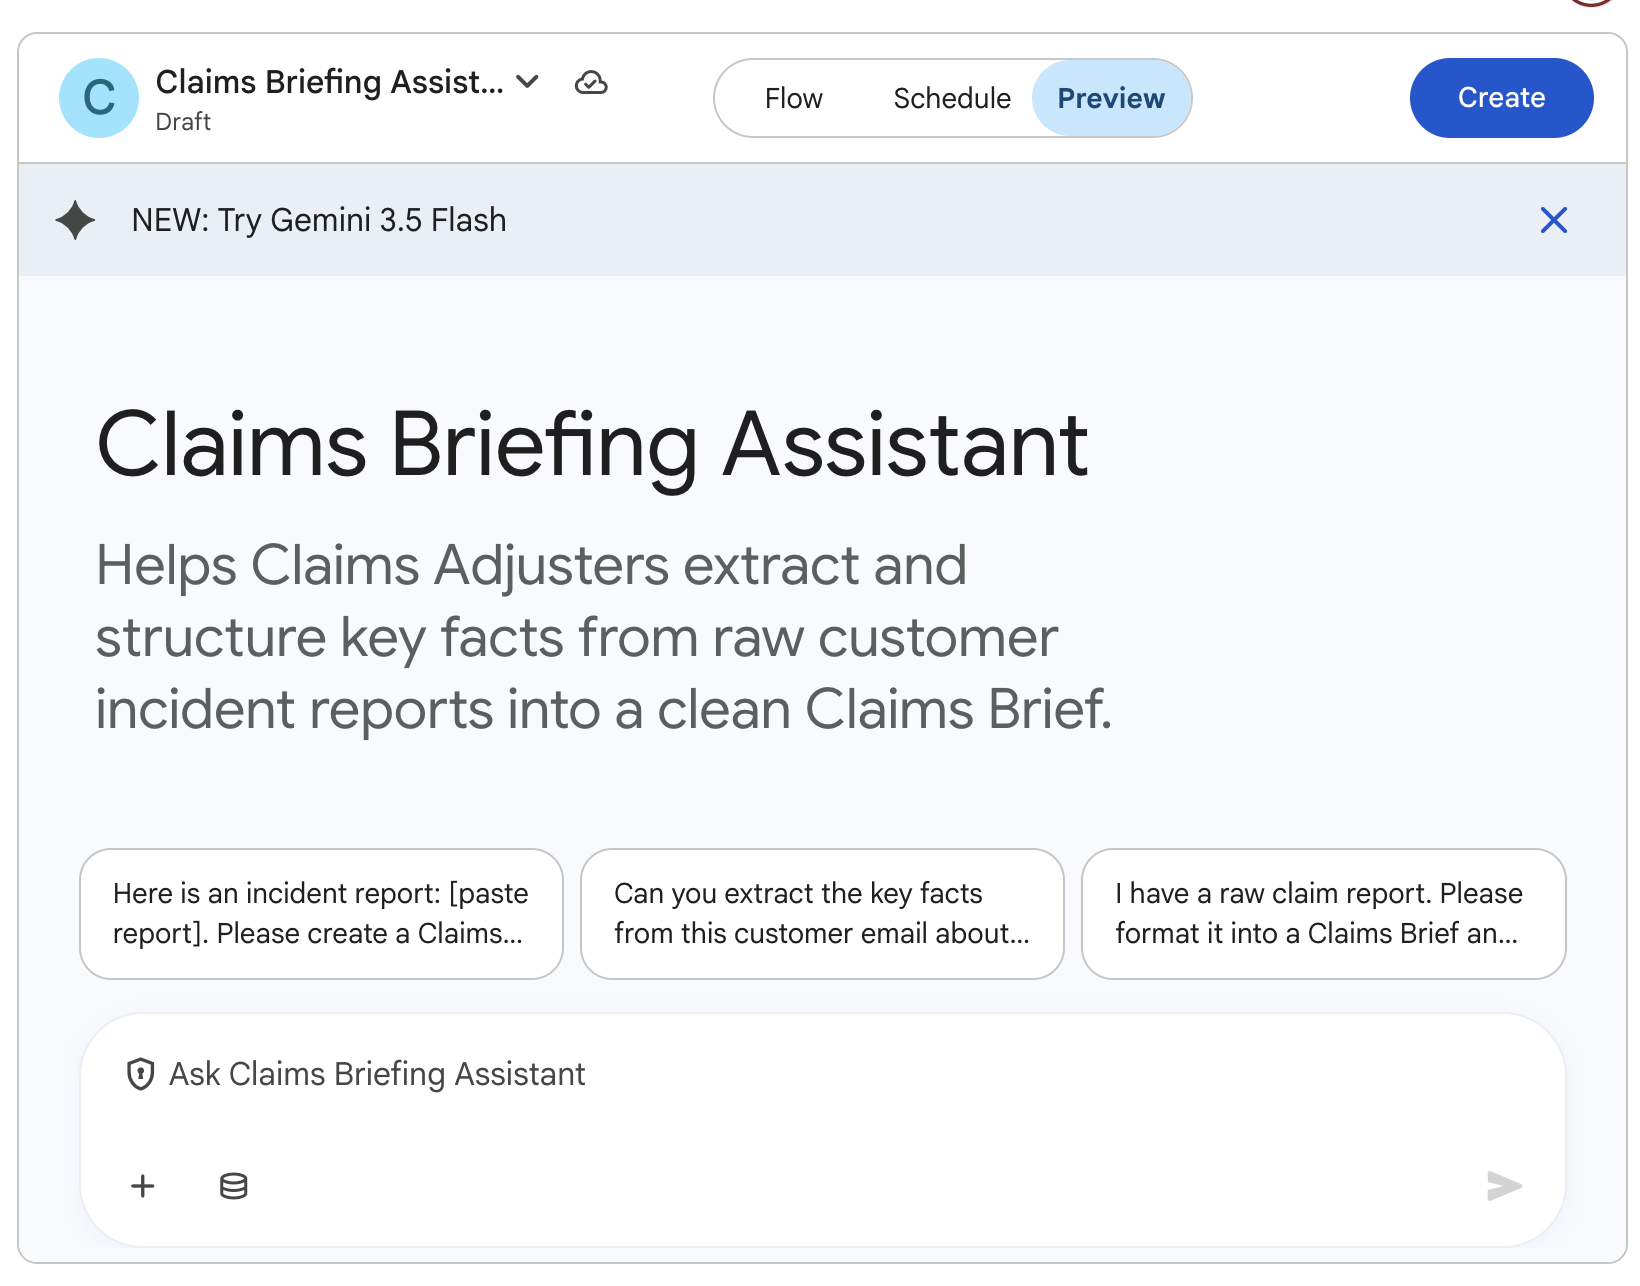
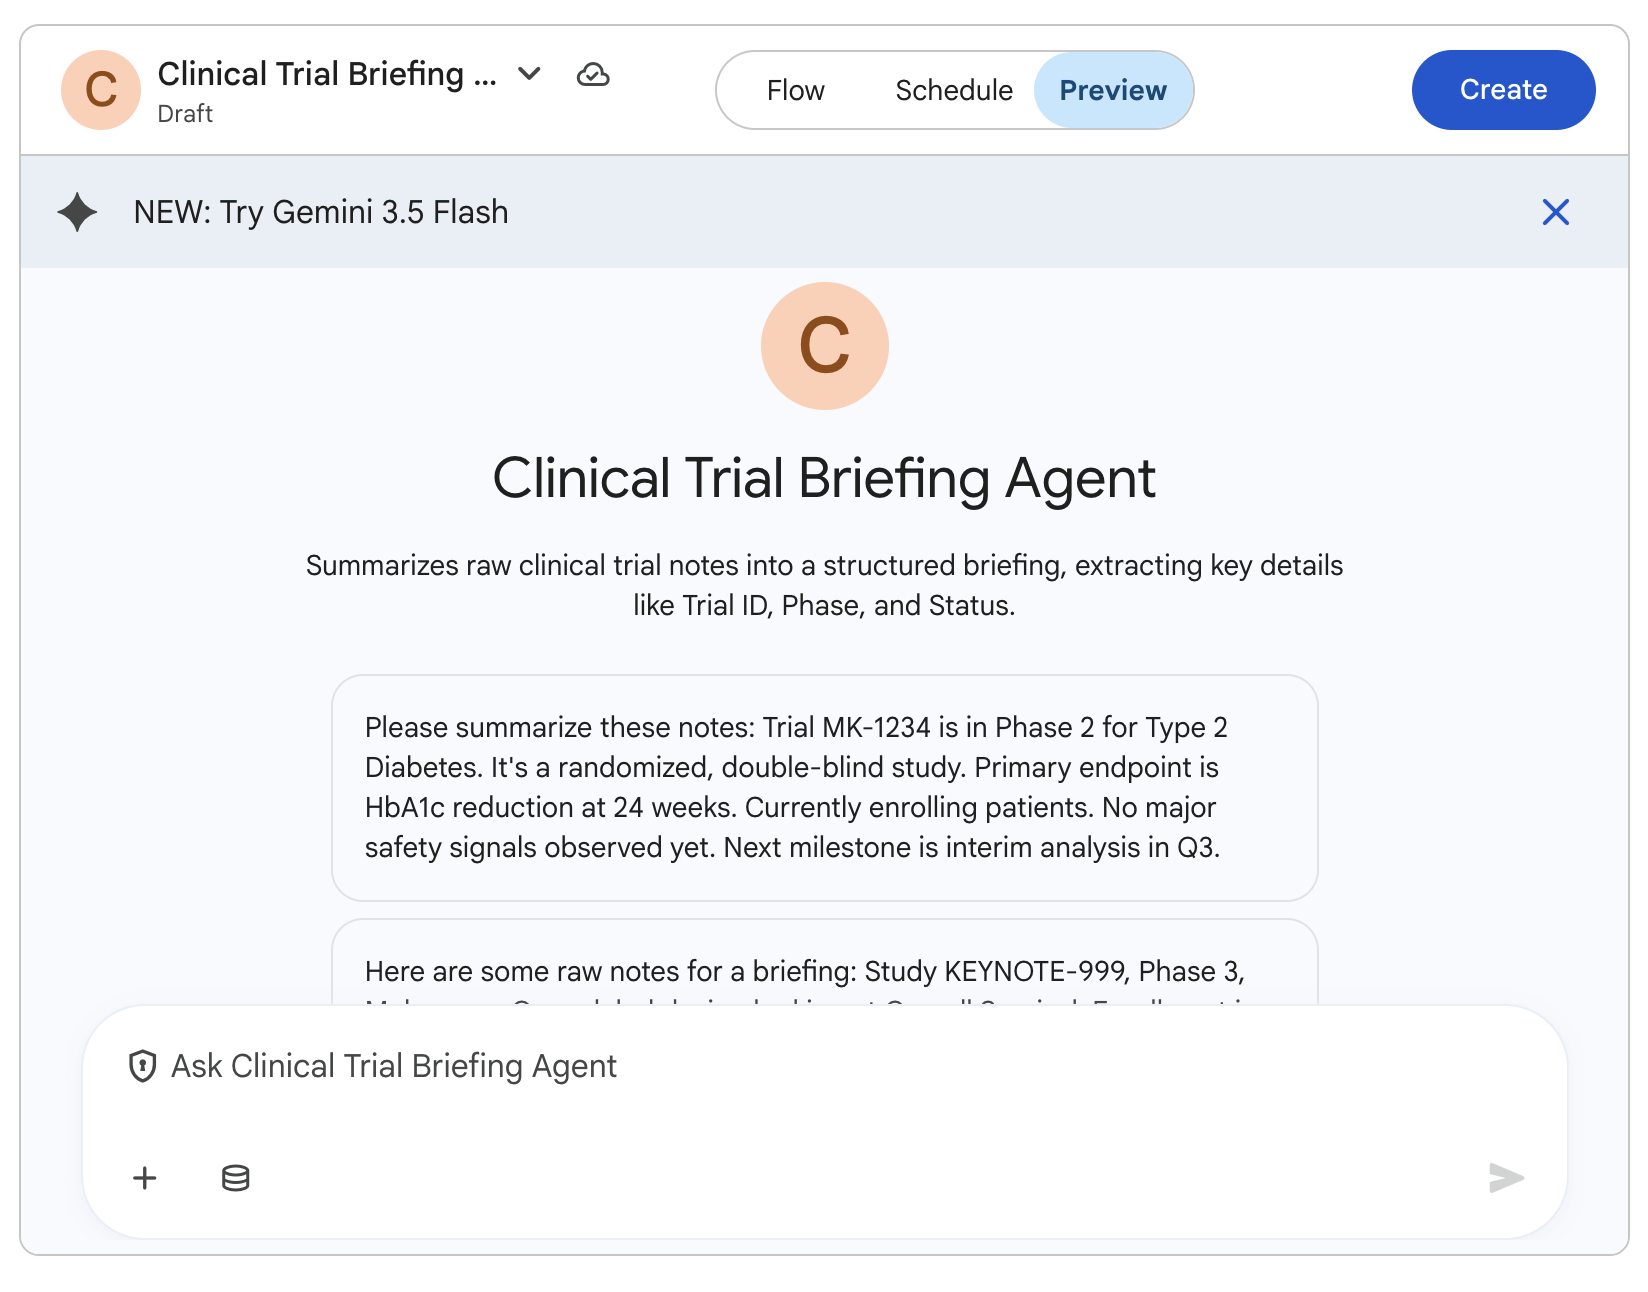
Demo 5

diff --git a/5-creating-simple-agents/creating-simple-agents.md b/5-creating-simple-agents/creating-simple-agents.md
@@ -1,32 +1,30 @@
 # Creating Simple Agents
 
 ## Time Required
-20 minutes
+15 minutes
 
 ## Overview
-In this lab, you create two agents using the prompt-based creation method in Gemini Enterprise Agent Designer. You will start with a focused, single-purpose agent and then build a more sophisticated routing agent—all by describing what you want in plain language.
+In this lab, you will create two lightweight agents in Gemini Enterprise Agent Designer. First, you will build a Clinical Trial Briefing Agent that turns unstructured trial text into a clean summary. Then, you will build a simple routing agent that escalates high-risk summaries.
 
 ### You learn how to:
-- Navigate to the Agent Designer and create an agent using a conversational prompt.
-- Write effective agent instructions that produce consistent, structured output.
-- Test and refine an agent using the Preview tab.
-- Create a multi-step agent that triages inputs and routes them between two distinct roles.
+- Create an agent using prompt-based design.
+- Extract structured fields from unstructured clinical-trial text.
 
 ## Scenario
 
 <p align="left">
-  <img src="images/cymbal-insurance-logo.png" width="25%" alt="Cymbal Insurance Logo" />
+  <img src="images/merck-logo.png" width="25%" alt="Merck Logo" />
 </p>
 
-Cymbal Insurance processes thousands of customer incident reports every day. Claims adjusters currently spend significant time manually reading through unstructured, conversational notes before they can act on a claim. Every minute spent decoding a report is a minute not spent helping a customer.
+Merck teams often need to quickly summarize trial updates for leadership. Raw notes and snippets are useful, but they are not briefing-ready.
 
-In this lab, you build two agents that transform this process: one that structures raw incident reports into a standardized brief, and one that automatically triages claims and routes them to the appropriate response.
+In this lab, you will build one agent to create a standardized trial brief and a second agent system to route high-risk trial updates for escalation.
 
 ## Lab Instructions
 
-### Task 1: Create the Claims Briefing Assistant
+### Task 1: Create the Clinical Trial Briefing Agent
 
-The Claims Briefing Assistant helps adjusters instantly extract and structure key facts from unformatted incident reports.
+This agent turns raw clinical-trial text into a clean, repeatable summary.
 
 1. Open your Gemini Enterprise web app in a browser.
 
@@ -40,21 +38,25 @@ The Claims Briefing Assistant helps adjusters instantly extract and structure ke
 3. The **Agent Designer** page opens. In the chat box, paste the following prompt and click the **Submit** icon:
 
    ```text
-   Create an agent called "Claims Briefing Assistant" for Cymbal Insurance.
+   Create an agent called "Clinical Trial Briefing Agent" for Merck.
 
-   This agent helps Claims Adjusters extract and structure key facts from raw, unformatted customer incident reports.
+   This agent summarizes raw clinical trial notes into a structured briefing.
 
-   When an adjuster pastes an incident report, the agent should:
-   1. Extract and clearly label these seven fields: Claimant Name, Date of Incident, Location, Type of Incident, Vehicles or Property Involved, Reported Injuries, and Estimated Damage.
-   2. If any field is missing or unclear, flag it as "Not Provided — follow up required."
-   3. Output a clean, consistently formatted "Claims Brief" using the exact field labels above.
-   4. End every brief with a one-sentence "Recommended Next Step" based on the reported severity.
+   When text is provided, extract and label:
+   1. Trial ID
+   2. Phase
+   3. Indication
+   4. Study design
+   5. Primary endpoint
+   6. Current status
+   7. Safety signals
+   8. Next milestone
 
-   The agent should be professional and factual. It must not add any information that was not stated in the incident report.
+   Rules:
+   - If data is missing, write: "Not Provided - follow up required."
+   - Do not invent facts.
+   - End with: "Recommended Next Step" in one sentence.
    ```
-
-   > [!NOTE]
-   > Gemini Enterprise analyzes your prompt and may ask clarifying questions before building the agent. If it does, review what it proposes before proceeding.
 
 4. The **Agent Designer canvas** appears with your agent and a live preview pane.
 
@@ -63,147 +65,32 @@ The Claims Briefing Assistant helps adjusters instantly extract and structure ke
      <br><em>The Agent Designer canvas showing your new agent and the Preview tab</em>
    </p>
 
-5. Click the **Flow** tab to inspect the generated agent structure. Click the agent node to review the generated **Name**, **Description**, and **Instructions**.
-
-   > [!NOTE]
-   > Review the generated instructions carefully. They should reflect what you described in the prompt. You can edit them directly in the configuration panel if anything needs adjustment.
-
-### Task 2: Test and refine the Claims Briefing Assistant
-
-1. Click the **Preview** tab. The conversational interface for your agent appears on the right.
-
-2. Test the agent with the following sample incident report—paste it into the chat:
+5. Click **Preview** and test with this sample input:
 
    ```text
-   Customer called in this morning. Says his car was hit while parked outside the mall on Riverside Drive. They dont know who hit it — someone left a note but never called back. Car is a 2019 Honda Accord. The rear bumper is smashed in and the trunk wont open. They think its about 3 to 4 thousand dollars in damage. No injuries. They have photos they can send.
+   Trial update: MK-ALZ-204 is a Phase 2 randomized, placebo-controlled study in early Alzheimer's disease. Enrollment target is 420 participants across US and EU sites. Primary endpoint is change in CDR-SB at 18 months. Interim operations update indicates enrollment is slower than plan in EU sites. No new serious safety signal reported; common AEs include headache and infusion-related reactions. Database lock is currently projected for Q2 next year.
    ```
 
-3. Review the generated Claims Brief. Ask yourself:
-   - Are all seven fields extracted correctly?
-   - Are missing fields flagged appropriately?
-   - Is the Recommended Next Step specific and actionable?
+6. Check that all fields are captured and missing fields are flagged.
 
-   <p align="left">
-     <img src="images/agent-response-1.png" width="70%" alt="Agent Test Response" />
-     <br><em>The Agent Preview showing the first test response.</em>
-   </p>
+### Task 2: Refine and Launch
 
-
-4. Let's try to improve the agent's output. Use the left chat pane to refine the agent with the following prompt:
+1. Improve the output with this refinement prompt:
 
    ```text
-   Update the instructions so the Recommended Next Steps always specifies one or more concrete actions, such as "Schedule field inspection" or "Request supplemental documentation from claimant" or whatever else is appropriate given the information gathered so far. 
+   Update the instructions so the Recommended Next Step always includes one concrete action and one owner (for example: Clinical Ops, Safety, or Regulatory).
    ```
 
-5. Test again with the updated agent to confirm the refinement worked. Here is another example test prompt.  
-
-```text
-Customer Mike Jones called this morning. Says his car was rear-ended on 495 South near mile marker 43. Car is a 2024 Chevy Silverado 1500. The rear bumper is dented and there is damage to the trail gate. A police report was filed by Fairfax Count PD. The other driver's name was Jeff Smith. From Tysons Corner, VA. There were no injuries. They have photos they can send.
-```
-
-6. When you are satisfied with the output, click **Create** to launch the agent.
+2. Test once more. If good, click **Create** to launch.
 
    > [!IMPORTANT]
    > If you exit the Agent Designer without clicking **Create**, your agent is saved as a **Draft** and will not be available to use until it is launched.
 
-7. Click the __Chat with Agent__ button to open it in a new chat window. Test it again. You can use one of the earlier test prompts or enter your own.
+3. Open **Chat with Agent** and run one quick verification test.
 
-8. Once your agent is deployed, it will be available in the __Agents__ screen in Gemini Enterprise. In the left-hand navigation menu, click **Agents**. You will see your agent in the __Your agents__ section.
-
-   <p align="left">
-     <img src="images/deployed-agent.png" width="70%" alt="Deployed Agent" />
-     <br><em>The Claims Briefing Assistant agent deployed in Gemini Enterprise.</em>
-   </p>
-
-### Task 3: Create the Claims Escalation Desk
-
-The Claims Escalation Desk is a two-part agent system. A Triage Agent assesses claim severity and determines routing; if escalation is needed, a Manager Escalation Agent drafts a structured internal memo for the Claims Manager.
-
-1. In the navigation menu, click **+ New agent** to open a fresh Agent Designer session.
-
-2. In the chat box, paste the following prompt and click **Submit**:
-
-   ```text
-   Create an agent system called "Claims Desk" for Cymbal Insurance. It should work as a two-step routing flow with two agents, the Claims Desk Agent is the root agent that takes requests and the Manager Escalation Agent is a sub-agent. 
-
-   Agent 1 — Claims Desk Agent:
-   Analyzes a submitted claim summary and determines the routing based on these rules:
-   - AUTO-APPROVE if: estimated damage is under $5,000 AND no injuries are reported AND no third-party liability is indicated.
-   - ESCALATE TO MANAGER if: estimated damage is $5,000 or more, OR injuries are reported (any severity), OR third-party liability is indicated.
-   Output: routing decision (AUTO-APPROVE or ESCALATE TO MANAGER) and a one-sentence reason.
-
-   Agent 2 — Manager Escalation Agent:
-   Only triggered when the Claims Desk Agent escalates a claim.
-   Drafts a structured internal escalation memo for the Claims Manager that includes:
-   - Memo header: To: Claims Manager | From: Claims Operations System | Re: Escalated Claim
-   - Claimant summary: name, date, and claim type
-   - Reason for escalation
-   - Key risk factors (injuries, high damage estimate, or third-party liability)
-   - Recommended next action for the manager
-   ```
-
-3. The Agent Designer generates a multi-step agent flow. Click the **Flow** tab to inspect the structure. You should see the root connected to the Manager Escalation Agent.
-
-   <p align="left">
-     <img src="images/escalation-desk-flow.png" width="70%" alt="Flow tab showing two-node agent structure" />
-     <br><em>The Flow tab showing the Triage Agent routing to the Manager Escalation Agent</em>
-   </p>
-
-4. Click the **Preview** tab and test the escalation path with this high-severity claim.
-
-   ```text
-   Claim ID: CI-2024-0892
-   Claimant: Robert Martinez
-   Date of Incident: November 3, 2024
-   Incident Type: Multi-vehicle collision
-   Vehicles Involved: Claimant's 2021 Ford F-150 and a delivery van
-   Reported Injuries: Claimant reports neck pain, taken to hospital
-   Estimated Damage: $18,500 vehicle damage + medical costs TBD
-   Third-Party Liability: Delivery van driver cited for running a red light
-   ```
-
-5. Verify that the Triage Agent routes this claim for escalation and that the Manager Escalation Agent produces a well-structured memo.
-
-6. Now test the auto-approval path.
-
-   ```text
-   Claim ID: CI-2024-0901
-   Claimant: Sarah Chen
-   Date of Incident: November 7, 2024
-   Incident Type: Hail damage to parked vehicle
-   Vehicles Involved: Claimant's 2020 Toyota Camry
-   Reported Injuries: None
-   Estimated Damage: $2,100
-   Third-Party Liability: None (weather event)
-   ```
-
-7. Confirm this claim is routed for auto-approval without triggering an escalation memo.
-
-8. When both paths work correctly, click **Create** to launch the agent.
-
-### Bonus Task 4: Test the boundaries
-
-The escalation rules become interesting at the edges. Use these scenarios to stress-test your routing logic.
-
-1. Test each of the following edge cases and note how the Triage Agent responds:
-   - A claim with exactly $5,000 in damage and no other escalation factors—which path does it take?
-   - A claim where injuries are "suspected but not confirmed"
-   - An incomplete report where the damage estimate is missing entirely
-
-2. If the routing logic does not behave as expected, open the agent for editing. In the **Agent Gallery**, find **Claims Escalation Desk** in the **Your agents** section, click **Actions**, and select **Edit**.
-
-3. Use the left chat pane to adjust the thresholds or clarify the language:
-
-   ```text
-   Update the Triage Agent so that "suspected injuries" and damage of exactly $5,000 are both treated as escalation triggers. Also add a rule: if the estimated damage is missing entirely, escalate to manager.
-   ```
-
-4. Click **Reset session** to save and relaunch the agent. Retest the edge cases to confirm the changes took effect.
 
 ## Congratulations!
 
 In this lab, you have:
-- Created two agents using the prompt-based method in Gemini Enterprise Agent Designer.
-- Written agent instructions that produce consistent, structured output.
-- Tested and refined agents using the Preview tab.
-- Built a multi-step agent that triages inputs and routes them between two distinct roles.
+- Created a clinical-trial summarization agent for Merck.
+- Refined output quality with clear instruction updates.